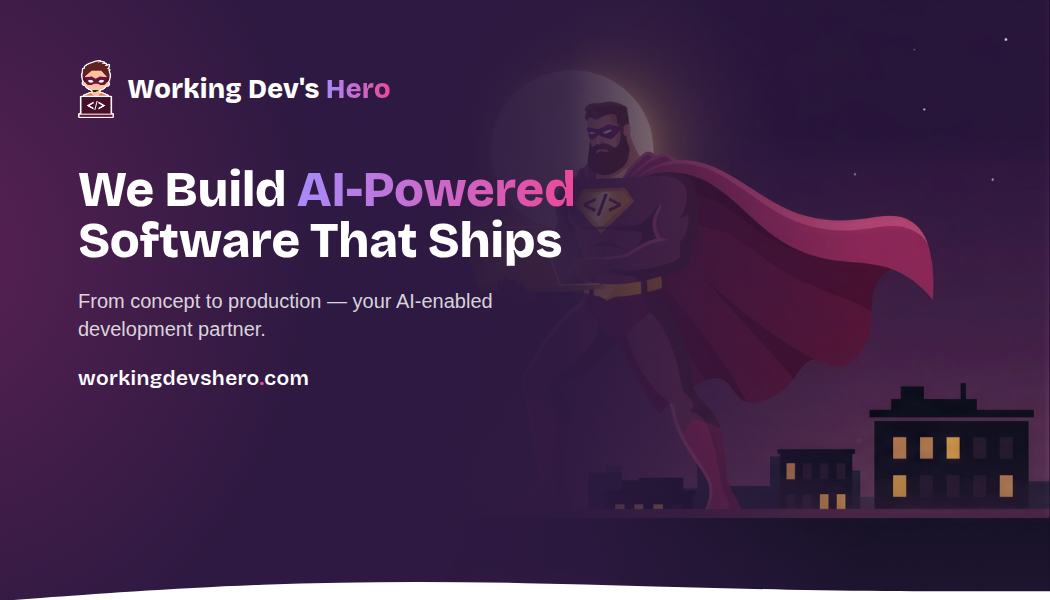
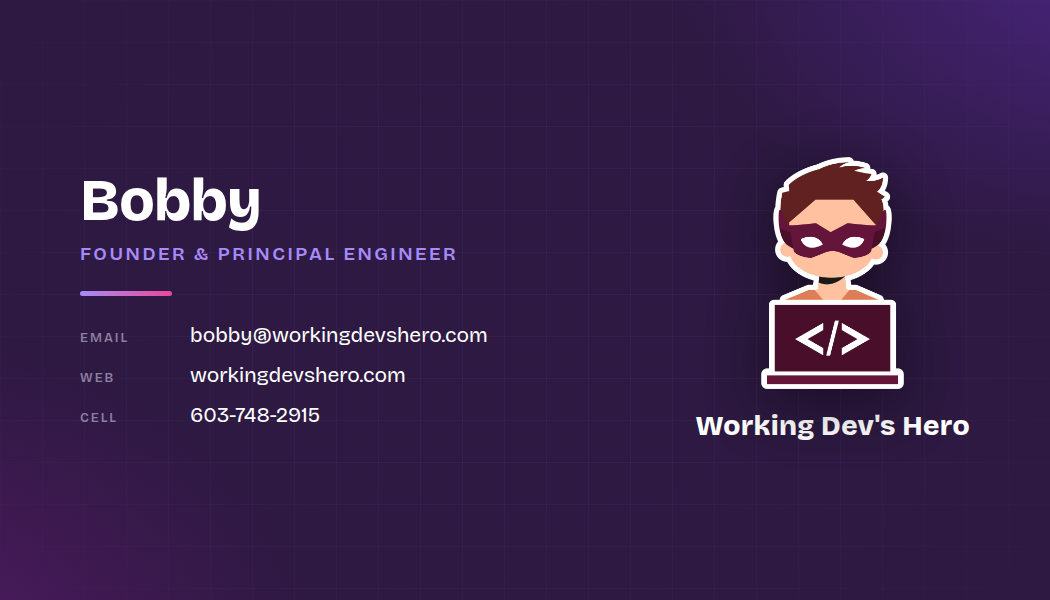
feat(brand): simplify business card sides
Front is now just the contact block (Bobby, email/web/cell) with a larger logo
and an all-white wordmark; back is the full-bleed homepage hero scene with no
text. Dropped the bottom wave from both sides and evened the margins.

diff --git a/scripts/business-card.html b/scripts/business-card.html
@@ -1,15 +1,17 @@
 <!DOCTYPE html>
 <!--
-  Source for the Working Dev's Hero business card (front + back).
+  Source for the Working Dev's Hero business card.
 
-  Styled after the homepage hero (src/components/home/Hero.astro): the rooftop
-  night scene, the "We Build AI-Powered Software That Ships" headline, and the
-  white bottom wave.
+  Two sides:
+    front — contact details, on the brand purple (grid + glow)
+    back  — the homepage hero scene, full bleed, no text
+
+  The scene side is the rooftop art from src/assets/images/hero-scene-wide.png,
+  the same image the homepage hero uses.
 
   Rendered to brand/business-cards/ by scripts/build-business-card.mjs — do not
   screenshot this by hand unless you are tuning. The card is a standard US size
-  (3.5in x 2in); the build renders it at 2x device scale, so the PNGs come out
-  2100x1200 (600 DPI) and drop straight into a print order.
+  (3.5in x 2in) at 300 DPI, so the PNGs come out exactly 1050x600.
 
   Add ?side=front | ?side=back to render one side, or ?side=sheet for both side
   by side (the tuning view). Add ?guides to overlay the trim and safe margins.
@@ -38,12 +40,13 @@
   :root {
     --card-w: 1050px;
     --card-h: 600px;
-    --pad: 78px;                 /* ~1/4in at 300dpi — well inside the trim */
+    --pad: 80px;                 /* even margin on all sides */
     --sky: #2d1941;              /* the hero scene's night-sky color */
     --violet: #A78BFA;
-    --pink: #EC4899;
-    --muted: rgba(255, 255, 255, 0.82);
     --grad: linear-gradient(90deg, #A78BFA, #EC4899);
+    /* Horizontal crop for the scene. 100% = right edge flush (hero centred-ish);
+       lower values crop more off the right and push the hero further right. */
+    --scene-pos: 70%;
   }
 
   * { margin: 0; padding: 0; box-sizing: border-box; }
@@ -63,7 +66,7 @@
     display: flex; gap: 40px; padding: 20px;
     background: #0b0710;
   }
-  body.sheet .card { display: flex !important; }
+  body.sheet .card { display: block !important; }
 
   .card {
     position: relative;
@@ -78,66 +81,8 @@
   body[data-side="front"] .card.front,
   body[data-side="back"]  .card.back { display: block; }
 
-  /* ---------- Front: mini hero ---------- */
-  .scene {
-    position: absolute; inset: 0;
-    background-image: url('../src/assets/images/hero-scene-wide.png');
-    background-size: cover;
-    background-position: right center;
-    background-repeat: no-repeat;
-  }
-  /* Same left-to-right fade the hero uses to keep the headline clear of the scene. */
-  .scene-fade {
-    position: absolute; inset: 0;
-    background:
-      linear-gradient(90deg,
-        var(--sky) 0%, var(--sky) 40%,
-        rgba(45, 25, 65, 0.92) 54%, rgba(45, 25, 65, 0.45) 68%, transparent 82%);
-  }
-  /* Hero's left pink glow, plus a bottom lift so the wave doesn't sit on the scene. */
-  .scene-glow {
-    position: absolute; inset: 0;
-    background:
-      radial-gradient(ellipse 620px 720px at -6% 42%, rgba(150, 45, 110, 0.42), transparent 62%),
-      linear-gradient(to bottom, transparent 66%, rgba(45, 25, 65, 0.55) 100%);
-  }
-
-  .front-inner {
-    position: absolute; inset: 0;
-    display: flex; flex-direction: column; justify-content: center;
-    padding: 0 var(--pad) 44px;
-  }
-  .brandline {
-    position: absolute; top: 60px; left: var(--pad);
-    display: flex; align-items: center; gap: 14px;
-  }
-  .brandline img { height: 58px; width: auto; }
-  .brandline .word { font-size: 27px; font-weight: 800; letter-spacing: 0.2px; }
-
-  .hero-text { position: relative; z-index: 2; max-width: 580px; }
-  .headline {
-    font-size: 49px; font-weight: 800; line-height: 1.04;
-    letter-spacing: -0.5px; color: #fff; margin-bottom: 20px;
-  }
-  .grad {
-    background: var(--grad);
-    -webkit-background-clip: text; background-clip: text;
-    -webkit-text-fill-color: transparent; color: transparent;
-  }
-  .subhead {
-    font-family: -apple-system, BlinkMacSystemFont, 'Segoe UI', Roboto, Helvetica, Arial, sans-serif;
-    font-size: 20px; font-weight: 400; line-height: 1.42; color: var(--muted);
-    max-width: 520px; margin-bottom: 22px;
-  }
-  .url { font-size: 21px; font-weight: 600; letter-spacing: 0.4px; color: #fff; }
-  .url .dot { color: var(--pink); }
-
-  /* The hero's signature bottom wave. */
-  .wave { position: absolute; left: 0; right: 0; bottom: -1px; height: 26px; }
-  .wave svg { display: block; width: 100%; height: 100%; }
-
-  /* ---------- Back: contact ---------- */
-  .back-bg {
+  /* ---------- Front: contact details ---------- */
+  .front-bg {
     position: absolute; inset: 0;
     background:
       radial-gradient(ellipse 760px 520px at 108% -10%, rgba(124, 58, 237, 0.38), transparent 62%),
@@ -150,22 +95,22 @@
       linear-gradient(rgba(167, 139, 250, 0.06) 1px, transparent 1px),
       linear-gradient(90deg, rgba(167, 139, 250, 0.06) 1px, transparent 1px);
     background-size: 42px 42px;
-    -webkit-mask-image: radial-gradient(ellipse 70% 90% at 50% 50%, #000 35%, transparent 100%);
-    mask-image: radial-gradient(ellipse 70% 90% at 50% 50%, #000 35%, transparent 100%);
+    -webkit-mask-image: radial-gradient(ellipse 72% 92% at 50% 50%, #000 35%, transparent 100%);
+    mask-image: radial-gradient(ellipse 72% 92% at 50% 50%, #000 35%, transparent 100%);
   }
-  .back-inner {
+  .front-inner {
     position: absolute; inset: 0;
     display: flex; align-items: center; justify-content: space-between;
-    padding: 0 var(--pad) 44px;
+    padding: var(--pad);
   }
-  .back-left { position: relative; z-index: 2; }
-  .name { font-size: 60px; font-weight: 800; letter-spacing: -1px; line-height: 1; }
+  .front-left { position: relative; z-index: 2; }
+  .name { font-size: 58px; font-weight: 800; letter-spacing: -1px; line-height: 1; }
   .role {
-    font-size: 20px; font-weight: 600; letter-spacing: 2.5px; text-transform: uppercase;
+    font-size: 19px; font-weight: 600; letter-spacing: 2.5px; text-transform: uppercase;
     color: var(--violet); margin-top: 12px;
   }
-  .rule { width: 92px; height: 5px; border-radius: 3px; background: var(--grad); margin: 24px 0; }
-  .contact { list-style: none; display: grid; gap: 13px; }
+  .rule { width: 92px; height: 5px; border-radius: 3px; background: var(--grad); margin: 26px 0; }
+  .contact { list-style: none; display: grid; gap: 14px; }
   .contact li { display: flex; align-items: baseline; gap: 18px; }
   .contact .k {
     width: 92px; flex: 0 0 auto;
@@ -173,14 +118,22 @@
     color: #8d7fa0;
   }
   .contact .v { font-size: 21px; font-weight: 400; color: #fff; }
-  .contact .v .grad { font-weight: 600; }
 
-  .back-right {
+  .front-right {
     position: relative; z-index: 2; text-align: center;
-    display: flex; flex-direction: column; align-items: center; gap: 16px;
+    display: flex; flex-direction: column; align-items: center; gap: 20px;
   }
-  .back-right .mark { height: 176px; width: auto; filter: drop-shadow(0 12px 30px rgba(0, 0, 0, 0.45)); }
-  .back-right .word { font-size: 24px; font-weight: 800; letter-spacing: 0.3px; white-space: nowrap; }
+  .front-right .mark { height: 232px; width: auto; filter: drop-shadow(0 12px 30px rgba(0, 0, 0, 0.45)); }
+  .front-right .word { font-size: 28px; font-weight: 800; letter-spacing: 0.3px; white-space: nowrap; color: #fff; }
+
+  /* ---------- Back: hero scene, full bleed ---------- */
+  .scene {
+    position: absolute; inset: 0;
+    background-image: url('../src/assets/images/hero-scene-wide.png');
+    background-size: cover;
+    background-position: var(--scene-pos) center;
+    background-repeat: no-repeat;
+  }
 
   /* ---------- Guides (tuning only) ---------- */
   body.guides .card::after {
@@ -194,57 +147,31 @@
 </style>
 </head>
 <body data-side="front">
-  <!-- Front -->
+  <!-- Front: contact details -->
   <section class="card front">
-    <div class="scene"></div>
-    <div class="scene-fade"></div>
-    <div class="scene-glow"></div>
-
-    <div class="brandline">
-      <img src="../brand/hero/logo-no-text.png" alt="" />
-      <span class="word">Working Dev's <span class="grad">Hero</span></span>
-    </div>
-
-    <div class="front-inner">
-      <div class="hero-text">
-        <h1 class="headline">We Build <span class="grad">AI-Powered</span><br />Software That Ships</h1>
-        <p class="subhead">From concept to production — your AI-enabled development partner.</p>
-        <div class="url">workingdevshero<span class="dot">.</span>com</div>
-      </div>
-    </div>
-
-    <div class="wave">
-      <svg viewBox="0 0 1440 120" preserveAspectRatio="none" fill="none" xmlns="http://www.w3.org/2000/svg">
-        <path d="M0 120L60 105C120 90 240 60 360 45C480 30 600 30 720 37.5C840 45 960 60 1080 67.5C1200 75 1320 75 1380 75L1440 75V120H1380C1320 120 1200 120 1080 120C960 120 840 120 720 120C600 120 480 120 360 120C240 120 120 120 60 120H0Z" fill="white" />
-      </svg>
-    </div>
-  </section>
-
-  <!-- Back -->
-  <section class="card back">
-    <div class="back-bg"></div>
+    <div class="front-bg"></div>
     <div class="grid"></div>
-    <div class="back-inner">
-      <div class="back-left">
+    <div class="front-inner">
+      <div class="front-left">
         <div class="name">Bobby</div>
         <div class="role">Founder &amp; Principal Engineer</div>
         <div class="rule"></div>
         <ul class="contact">
           <li><span class="k">Email</span><span class="v">bobby@workingdevshero.com</span></li>
-          <li><span class="k">Web</span><span class="v">workingdevshero<span class="grad">.</span>com</span></li>
+          <li><span class="k">Web</span><span class="v">workingdevshero.com</span></li>
           <li><span class="k">Cell</span><span class="v">603-748-2915</span></li>
         </ul>
       </div>
-      <div class="back-right">
+      <div class="front-right">
         <img class="mark" src="../brand/hero/logo-no-text.png" alt="" />
-        <div class="word">Working Dev's <span class="grad">Hero</span></div>
+        <div class="word">Working Dev's Hero</div>
       </div>
     </div>
-    <div class="wave">
-      <svg viewBox="0 0 1440 120" preserveAspectRatio="none" fill="none" xmlns="http://www.w3.org/2000/svg">
-        <path d="M0 120L60 105C120 90 240 60 360 45C480 30 600 30 720 37.5C840 45 960 60 1080 67.5C1200 75 1320 75 1380 75L1440 75V120H1380C1320 120 1200 120 1080 120C960 120 840 120 720 120C600 120 480 120 360 120C240 120 120 120 60 120H0Z" fill="white" />
-      </svg>
-    </div>
+  </section>
+
+  <!-- Back: hero scene, no text -->
+  <section class="card back">
+    <div class="scene"></div>
   </section>
 
   <script>

diff --git a/brand/business-cards/README.md b/brand/business-cards/README.md
@@ -6,19 +6,20 @@ Built from `scripts/business-card.html` by `scripts/build-business-card.mjs`:
 node scripts/build-business-card.mjs
 ```
 
-Styled after the homepage hero (`src/components/home/Hero.astro`): the rooftop
-night scene, the "We Build AI-Powered Software That Ships" headline, and the
-white bottom wave.
-
 Standard US card size (3.5in × 2in) at **300 DPI**, so every PNG is exactly
 **1050 × 600** and prints at true size. `CHROME` overrides the browser path;
 otherwise the usual macOS/Linux/Windows install locations are searched.
 
 | File | Size | Use |
 |---|---|---|
-| `business-card-front.png` | 1050 × 600 | Front (hero scene + headline) |
-| `business-card-back.png` | 1050 × 600 | Back (Bobby, contact details) |
+| `business-card-front.png` | 1050 × 600 | Front — contact details on the brand purple |
+| `business-card-back.png` | 1050 × 600 | Back — the homepage hero scene, full bleed, no text |
 | `business-card-sheet.png` | 2180 × 640 | Two-up review sheet (front + back) |
+
+The back uses `src/assets/images/hero-scene-wide.png` — the same rooftop art the
+homepage hero uses (`src/components/home/Hero.astro`). Tune the crop with the
+`--scene-pos` variable in the template (`100%` = right edge flush; lower values
+push the hero further right).
 
 Print notes: the artwork has no bleed. Keep ~1/8in of the edge clear (the layout
 already pads to ~1/4in), and tell the printer "3.5 × 2in, no bleed" or let them
